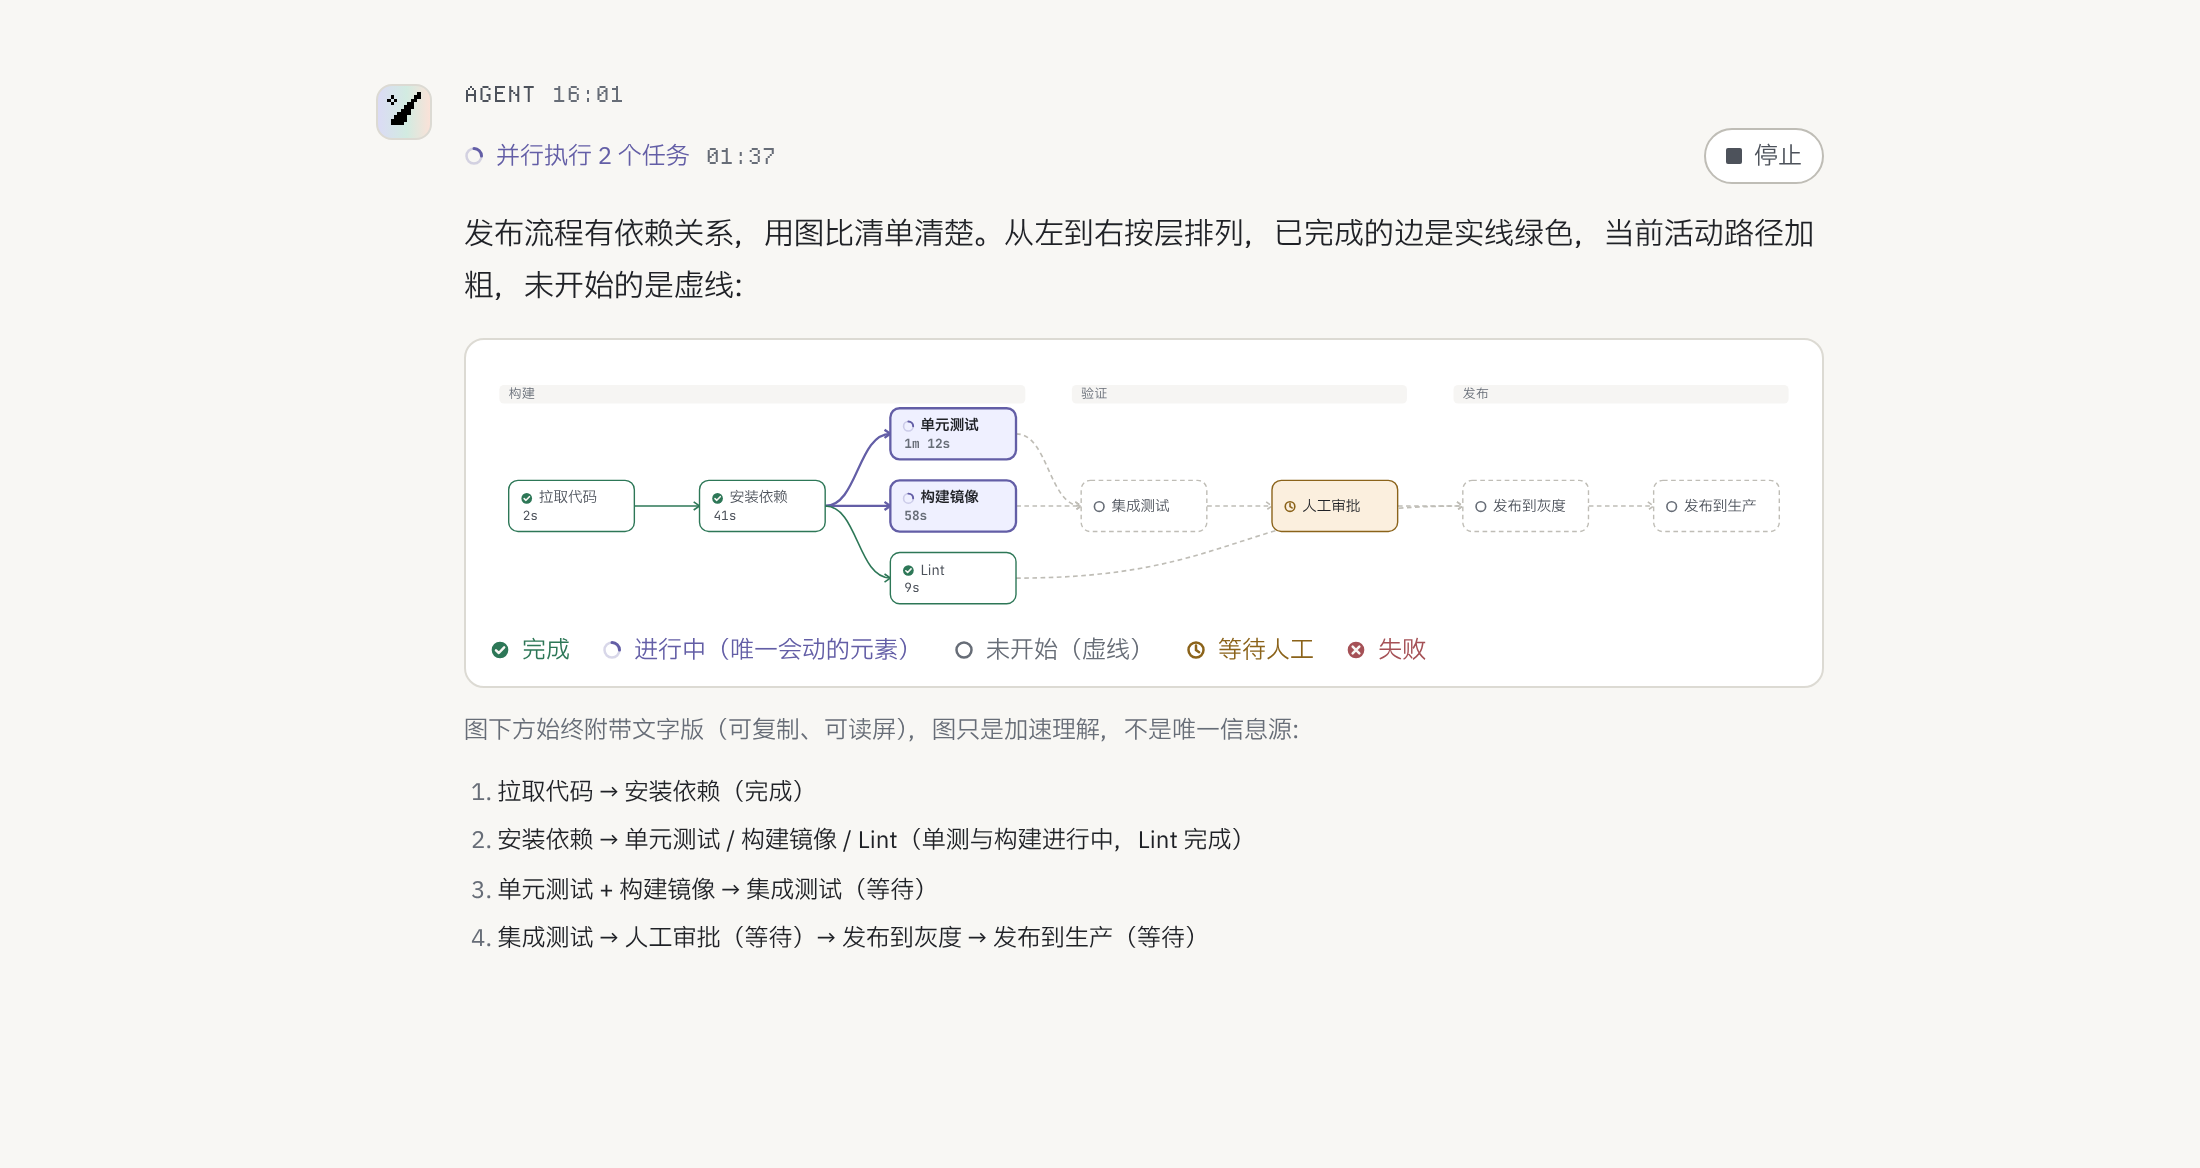
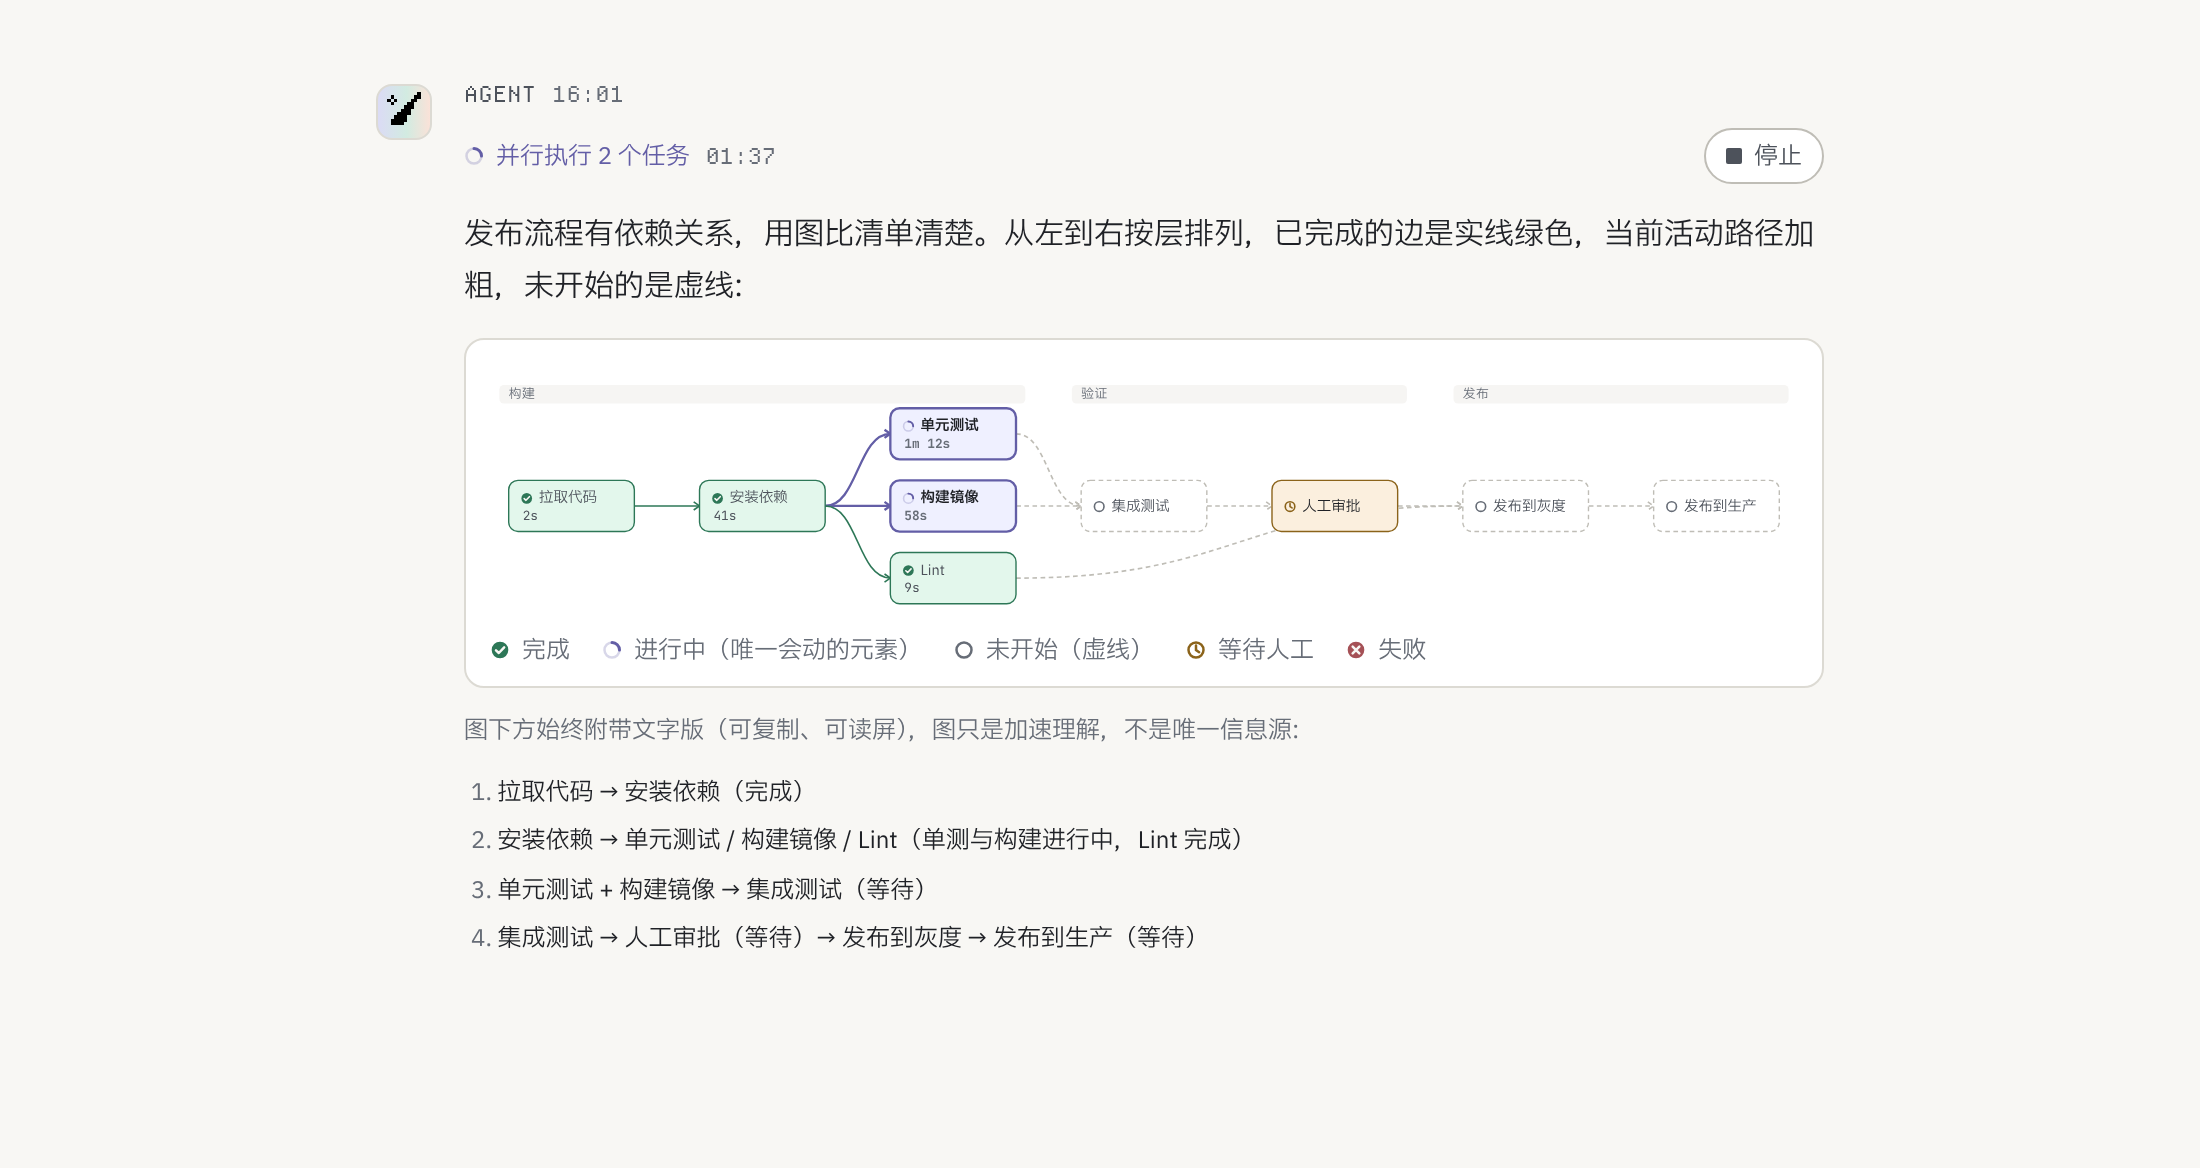
DAG: restore tinted fills for completed nodes, neutral legend text
Claude-Session: https://claude.ai/code/session_019TAozbCiCoJNxbMmRoPrCA

Changed region(s): [[0.2164, 0.4007, 0.3709, 0.4623], [0.4018, 0.4623, 0.4636, 0.524], [0.5564, 0.5548, 0.5873, 0.5856]]

diff --git a/agent-chat-readability/demo/demo.css b/agent-chat-readability/demo/demo.css
@@ -222,7 +222,7 @@ body.capture .skeleton{animation:none}
 .g-node rect{fill:var(--surface);stroke:var(--border-strong);stroke-width:1.2}
 .g-node text{fill:var(--text);font-size:12.5px}
 .g-node .sub{fill:var(--text-3);font-size:11px;font-family:var(--font-mono)}
-.g-node.done rect{stroke:var(--success);fill:var(--surface)}
+.g-node.done rect{stroke:var(--success);fill:var(--success-bg)}
 .g-node.done text{fill:var(--text-2)}
 .g-node.running rect{stroke:var(--accent);stroke-width:2;fill:var(--accent-bg)}
 .g-node.running text{font-weight:600}
@@ -232,7 +232,9 @@ body.capture .skeleton{animation:none}
 .g-node.waiting rect{stroke:var(--warning);fill:var(--warning-bg)}
 .g-node .ic{width:11px;height:11px}
 .g-node.done .ic{color:var(--success)} .g-node.running .ic{color:var(--accent)} .g-node.pending .ic{color:var(--text-3)} .g-node.failed .ic{color:var(--danger)} .g-node.waiting .ic{color:var(--warning)} .g-node.skipped .ic{color:var(--text-3)}
-.graph .cap .st{font-size:var(--fs-xs)}
+.graph .cap .st{font-size:var(--fs-xs);color:var(--text-3)}
+.graph .cap .st .dot{color:inherit}
+.graph .cap .st.done .dot{color:var(--success)} .graph .cap .st.running .dot{color:var(--accent)} .graph .cap .st.waiting .dot{color:var(--warning)} .graph .cap .st.failed .dot{color:var(--danger)}
 .g-node.skipped rect{stroke:var(--border);fill:var(--surface-2)} .g-node.skipped text{fill:var(--text-3)}
 .g-edge{fill:none;stroke:var(--border-strong);stroke-width:1.4}
 .g-edge.done{stroke:var(--success)}
